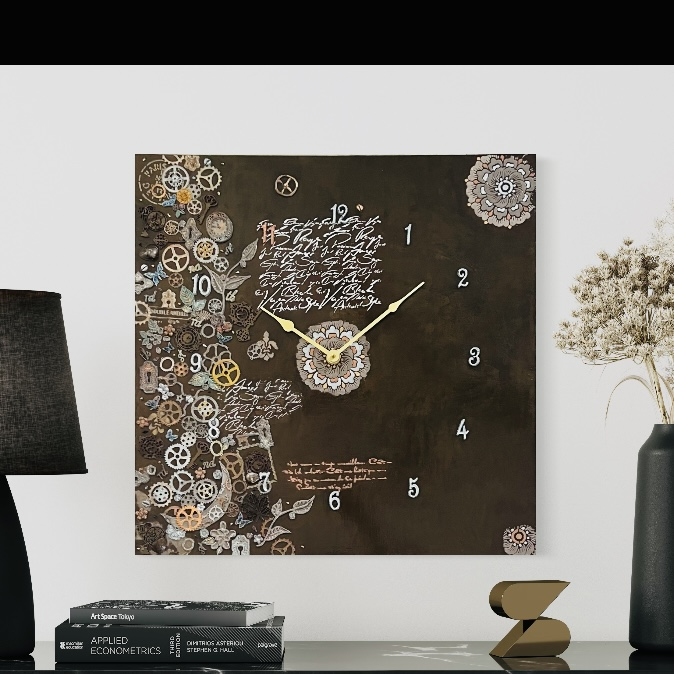
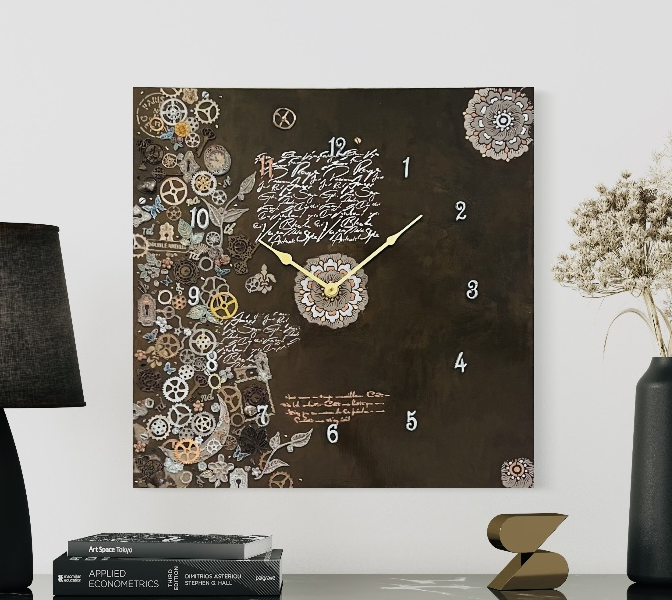
new paintings  commit

diff --git a/src/Components/Craft.js b/src/Components/Craft.js
@@ -27,7 +27,7 @@ export default function Craft() {
           <figure key={index} className="text-center stylish-caption">
             <figcaption className="mt-2">{`Minis # ${index + 1}`}</figcaption>
             <img className="w-75 h-75 img-fluid" src={imgSrc} alt="icon"></img>
-            <figcaption className="mt-2">Size: 1X2</figcaption>
+            <figcaption className="mt-2"></figcaption>
           </figure>
         </ProductsCard>
       ))}
@@ -39,7 +39,7 @@ export default function Craft() {
           <figure key={index} className="text-center stylish-caption">
             <figcaption className="mt-2">{`Charms # ${index + 1}`}</figcaption>
             <img className="w-75 h-75 img-fluid" src={imgSrc} alt="icon"></img>
-            <figcaption className="mt-2">Size: 1X2</figcaption>
+            <figcaption className="mt-2"></figcaption>
           </figure>
         </ProductsCard>
       ))}
@@ -50,7 +50,7 @@ export default function Craft() {
           <figure key={index} className="text-center stylish-caption">
             <figcaption className="mt-2">{`Story Stems # ${index + 1}`}</figcaption>
             <img className="w-75 h-75 img-fluid" src={imgSrc} alt="icon"></img>
-            <figcaption className="mt-2">Size: 1X2</figcaption>
+            <figcaption className="mt-2"></figcaption>
           </figure>
         </ProductsCard>
       ))}
